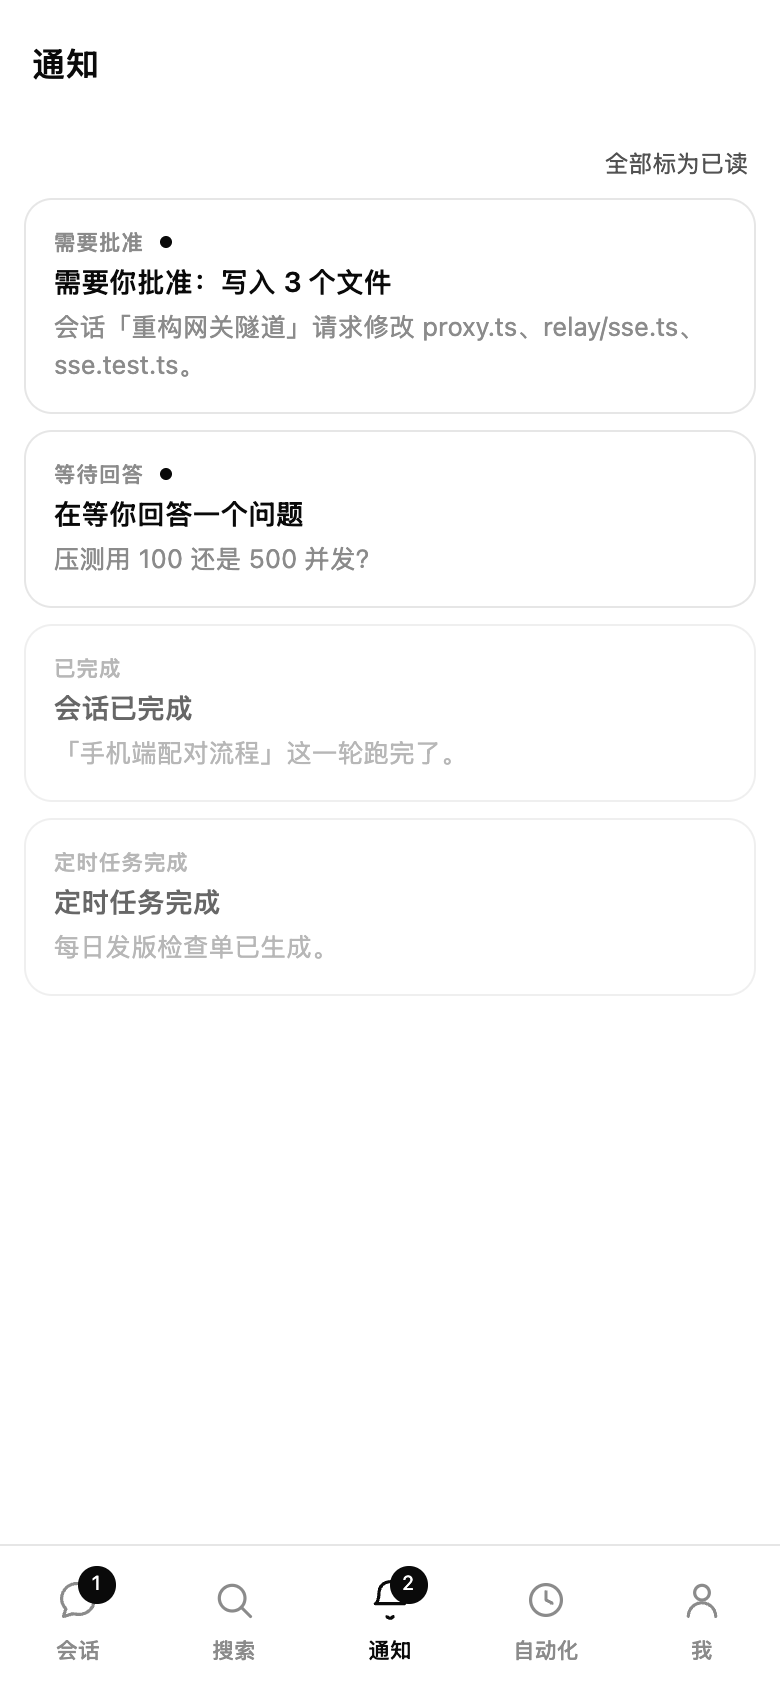
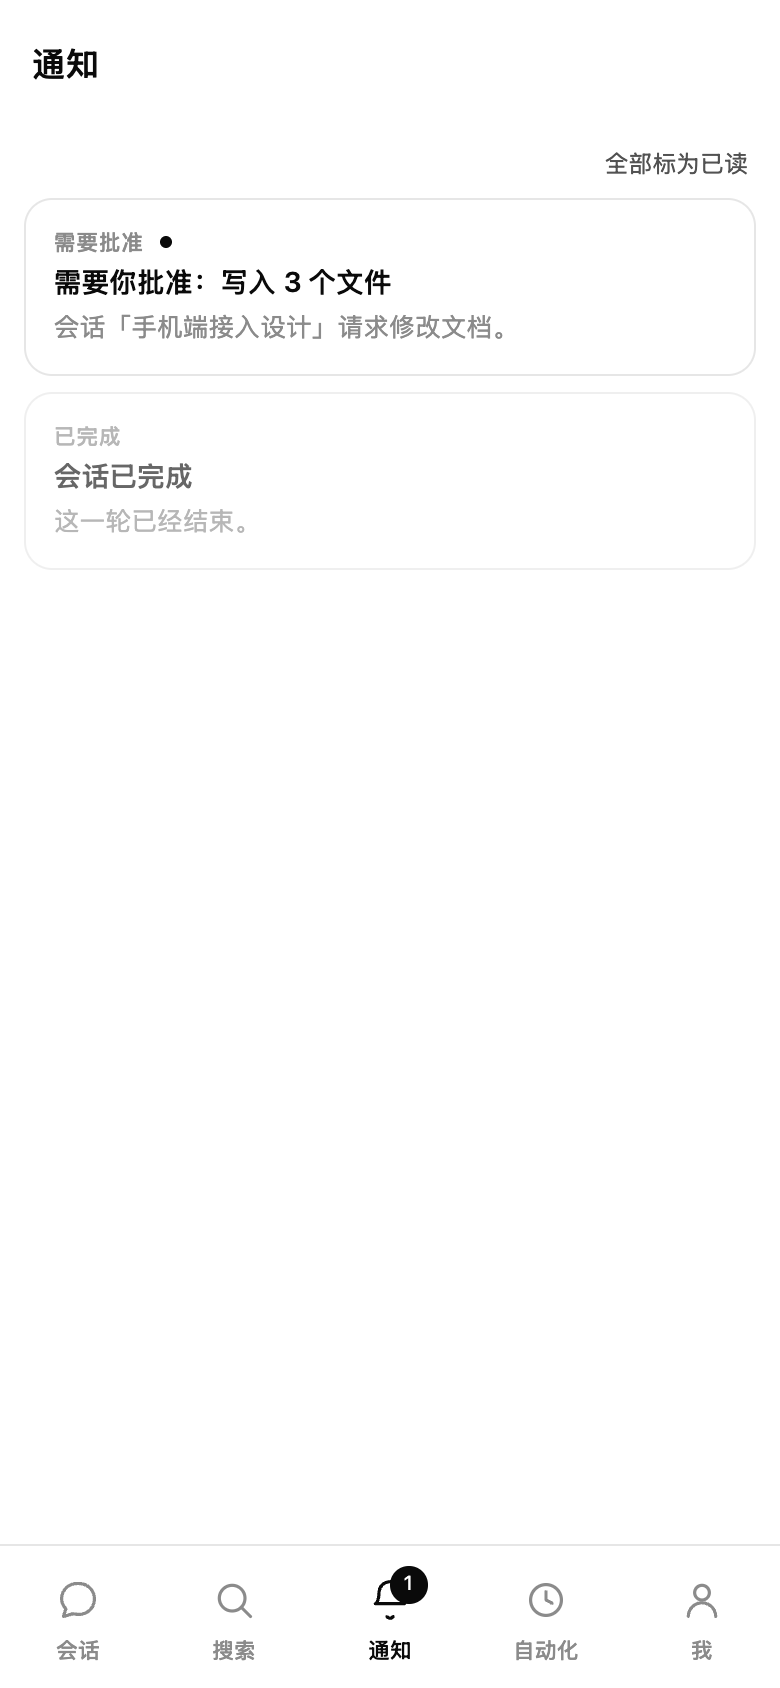
fix(mobile): 通知中心加载桌面积压并修正审批跳转（v3 §5.8）
- 新增 toNotifications：数值 id、ISO 时间归一，去重与上限
- bootstrap/配对/打开通知页都拉 notification_list，避免假空态
- 审批通知优先按 requestId 进审批页，无 requestId 时回到会话
- 真链路 13 屏走查全通过；E2E 104/104、单测 220、UI 32/32

diff --git a/scripts/preview-mobile-web.ts b/scripts/preview-mobile-web.ts
@@ -33,6 +33,11 @@ const SESSIONS: Array<{ id: string; title: string; updatedAt: number; pinned: bo
   { id: 'sess-notes', title: '周会纪要', updatedAt: now - 26 * 3_600_000, pinned: false, cwd: '/tmp/scratch' },
 ]
 
+const DEMO_NOTIFICATIONS = [
+  { id: 2, kind: 'approval', title: '需要你批准：写入 3 个文件', body: '会话「手机端接入设计」请求修改文档。', sessionId: 'sess-mobile', severity: 'info', read: false, at: new Date(now - 30_000).toISOString() },
+  { id: 1, kind: 'done', title: '会话已完成', body: '这一轮已经结束。', sessionId: 'sess-notes', severity: 'info', read: true, at: new Date(now - 3_600_000).toISOString() },
+]
+
 const AUTOMATIONS: Array<Record<string, unknown>> = [
   {
     id: 'auto-demo', name: '每日晨报', prompt: '整理今天的日程与待办，发一段摘要。',
@@ -195,7 +200,10 @@ const dispatcher: HostDispatcher = {
         demoQueue.followUp = []
         return { steering: [], followUp: [] }
       case 'notification_list':
-        return []
+        return DEMO_NOTIFICATIONS.map(item => ({ ...item }))
+      case 'notification_mark_all_read':
+        for (const item of DEMO_NOTIFICATIONS) item.read = true
+        return { ok: true }
       case 'agent_resolve_permission':
         for (const listener of listeners) listener('agent://permission-dismiss', { requestId: payload.requestId, sessionId: payload.sessionId })
         return { resolved: true }
@@ -263,6 +271,33 @@ const dispatcher: HostDispatcher = {
           { id: '/Users/louloulin/stock/OpenBuddy/docs', kind: 'folder', label: 'docs', path: '/Users/louloulin/stock/OpenBuddy/docs', addedAt: new Date(now).toISOString() },
           { id: '/tmp/scratch', kind: 'folder', label: 'scratch', path: '/tmp/scratch', addedAt: new Date(now).toISOString() },
         ]
+      case 'memory_list':
+        return [
+          { scope: 'global', path: 'MEMORY.md', content: '# 长期偏好\n\n- 回答用中文\n- 先给结论', size: 40 },
+          { scope: 'global', path: 'people/team.md', content: '- 小林负责安卓', size: 18 },
+          { scope: 'workspace', path: 'notes.md', content: '# 项目笔记', size: 12 },
+        ]
+      case 'memory_get':
+        return '# 长期偏好\n\n- 回答用中文\n- 先给结论再给理由'
+      case 'agent_tree':
+        return {
+          sessionId: 'sess-mobile',
+          leafId: 'leaf-2',
+          turns: [{
+            entryId: 'u-1', timestamp: now - 300_000, index: 1, total: 2,
+            siblings: [
+              { entryId: 'v1', leafId: 'leaf-1', timestamp: now - 320_000, preview: '手机端现在能直接用了？', files: [] },
+              { entryId: 'v2', leafId: 'leaf-2', timestamp: now - 300_000, preview: '手机端现在能直接用了？顺便看看重连。', files: [] },
+            ],
+          }],
+        }
+      case 'rewind_points':
+        return [{ entryId: 'u-1', index: 0, preview: '手机端现在能直接用了？' }]
+      case 'checkpoint_list':
+        return [{
+          id: 'ck-1', toolCallId: 'tc-write-1', path: 'docs/plan/20261115-mobile.md',
+          before: null, after: 'a'.repeat(64), at: now - 240_000, source: 'tool',
+        }]
       case 'automations_snapshot':
         return { automations: AUTOMATIONS.map(item => ({ ...item })), records: [] }
       case 'automations_save': {
@@ -334,8 +369,9 @@ const dispatcher: HostDispatcher = {
     'agent_set_session_pinned', 'agent_rename_session', 'agent_set_session_archived', 'agent_delete_session',
     'agent_export_jsonl', 'read_text_file', 'agent_session_info', 'list_dir', 'files_search', 'commands_list',
     'automations_snapshot', 'automations_save', 'automations_delete', 'automations_set_status', 'automations_run',
-    'library_list', 'projects_snapshot', 'turn_revert',
-    'session_search', 'notification_list',
+    'library_list', 'projects_snapshot', 'turn_revert', 'session_search',
+    'memory_list', 'memory_get', 'agent_tree', 'rewind_points', 'checkpoint_list', 'notification_list',
+    'notification_mark_all_read',
   ],
 }
 

diff --git a/scripts/e2e-mobile-app.ts b/scripts/e2e-mobile-app.ts
@@ -45,6 +45,7 @@ import { toProjects } from '../apps/mobile/src/core/projects.js'
 import { canRevertTool, summarizeRevert } from '../apps/mobile/src/core/revert.js'
 import { extractSources, isSourceTool } from '../apps/mobile/src/core/sources.js'
 import { APPROVE_ACTION, DENY_ACTION, decisionForResponse } from '../apps/mobile/src/core/push-actions.js'
+import { toNotifications } from '../apps/mobile/src/core/notification-list.js'
 import { cleanSessionTitle, sessionActions } from '../apps/mobile/src/core/session-actions.js'
 import { bumpUnread, shouldMarkUnread, totalUnread } from '../apps/mobile/src/core/unread.js'
 import { parseLockSetting, shouldRelock } from '../apps/mobile/src/core/app-lock.js'
@@ -252,6 +253,13 @@ const dispatcher: HostDispatcher = {
       case 'checkpoint_restore':
         restoredFiles.push({ path: String(payload.path), hash: typeof payload.hash === 'string' ? payload.hash : null })
         return { restored: [String(payload.path)], conflicts: [] }
+      case 'notification_list':
+        return [
+          { id: 2, kind: 'approval', title: '需要批准：写入 3 个文件', body: '会话在等你', sessionId: 'sess-1', read: false, at: new Date().toISOString() },
+          { id: 1, kind: 'done', title: '上一轮已完成', body: '', sessionId: 'sess-1', read: true, at: new Date(Date.now() - 60_000).toISOString() },
+        ]
+      case 'notification_mark_all_read':
+        return { ok: true }
       case 'memory_save':
         savedMemory.push({ scope: String(payload.scope), path: String(payload.path), content: String(payload.content) })
         return { scope: payload.scope, path: payload.path, content: payload.content, size: String(payload.content).length }
@@ -265,7 +273,7 @@ const dispatcher: HostDispatcher = {
   },
   servedCommands: () => [
     'agent_list_sessions', 'agent_load_session', 'agent_send', 'agent_resolve_permission',
-    'session_search', 'notification_list',
+    'session_search', 'notification_list', 'notification_mark_all_read',
     'memory_list', 'memory_get', 'memory_save',
     'agent_tree', 'rewind_points', 'rewind_execute', 'agent_navigate', 'checkpoint_list', 'checkpoint_restore',
     'agent_init', 'agent_new_session',
@@ -702,6 +710,14 @@ if (pushed) {
   })
   check('the decision reaches the desktop', resolved.some(item => item.requestId === 'perm-1'))
 }
+
+// ── 8u. Notification backlog (v3 §5.8) ─────────────────────────────────────
+
+const backlog = toNotifications(await transport.invoke<unknown>('notification_list', {}))
+check('the notification backlog loads from the desktop',
+  backlog.length === 2 && backlog[0]?.kind === 'approval' && backlog[0]?.id === '2')
+await transport.invoke('notification_mark_all_read', {})
+check('marking all read reaches the desktop', true)
 
 // ── 9. Offline outbox: FIFO, stops on failure, resumes in order ────────────
 

diff --git a/apps/mobile/src/stores/app.ts b/apps/mobile/src/stores/app.ts
@@ -36,6 +36,7 @@ import { exportFilename, isTruncatedRead, jsonlEntryCount, MAX_EXPORT_BYTES } fr
 import type { BatchOutcome } from '../core/batch'
 import { toSessionList } from '../core/session-list'
 import { toProjects, type ProjectRef } from '../core/projects'
+import { toNotifications } from '../core/notification-list'
 import { bumpUnread, clearUnread, shouldMarkUnread } from '../core/unread'
 import {
   LOCK_KEY, lockUnavailableReason, parseLockSetting, serializeLockSetting, shouldRelock,
@@ -80,6 +81,8 @@ type AppState = {
   transcripts: Record<string, Transcript>
   approvals: Approval[]
   notifications: NotificationItem[]
+  /** True once `notification_list` answered (the tab avoids a false empty state). */
+  notificationsLoaded: boolean
   /** Running desktop tasks for the task drawer. */
   tasks: RunningTask[]
   permissionMode: PermissionMode | null
@@ -131,6 +134,8 @@ type AppState = {
   resolveQuestion: (requestId: string, sessionId: string, value?: string | boolean, cancelled?: boolean) => Promise<void>
   resolveTrust: (cwd: string, trusted: boolean) => Promise<void>
   refreshTasks: () => Promise<void>
+  /** Loads the notification backlog the desktop recorded. */
+  refreshNotifications: () => Promise<void>
   killTask: (taskId: string) => Promise<void>
   refreshPermissionMode: () => Promise<void>
   revoked: () => Promise<void>
@@ -174,6 +179,7 @@ export const useApp = create<AppState>((set, get) => ({
   transcripts: {},
   approvals: [],
   notifications: [],
+  notificationsLoaded: false,
   tasks: [],
   permissionMode: null,
   awaiting: [],
@@ -234,6 +240,7 @@ export const useApp = create<AppState>((set, get) => ({
     await get().refreshSessions()
     await loadCapabilities(get, set)
     void get().refreshPermissionMode()
+    void get().refreshNotifications()
     await flushQueue(get)
   },
 
@@ -249,6 +256,7 @@ export const useApp = create<AppState>((set, get) => ({
       await get().refreshSessions()
       await loadCapabilities(get, set)
       void get().refreshPermissionMode()
+      void get().refreshNotifications()
     } catch (error) {
       set({ error: errorText(error) })
       throw error
@@ -683,6 +691,21 @@ export const useApp = create<AppState>((set, get) => ({
       set({ tasks: Array.isArray(list) ? list : [] })
     } catch {
       // Task drawer is best-effort; a failed poll keeps the previous list.
+    }
+  },
+
+  async refreshNotifications() {
+    const transport = get().transport
+    if (!transport) {
+      set({ notificationsLoaded: true })
+      return
+    }
+    try {
+      const list = await transport.invoke<unknown>('notification_list', {})
+      set({ notifications: toNotifications(list), notificationsLoaded: true })
+    } catch {
+      // An older desktop may not serve it; keep whatever push delivered.
+      set({ notificationsLoaded: true })
     }
   },
 

diff --git a/apps/mobile/app/(tabs)/notifications.tsx b/apps/mobile/app/(tabs)/notifications.tsx
@@ -6,7 +6,8 @@
  * medium contrast — the same de-emphasis the desktop uses for read items.
  */
 
-import { Pressable, Text, View, useColorScheme } from 'react-native'
+import { useEffect } from 'react'
+import { ActivityIndicator, Pressable, ScrollView, Text, View, useColorScheme } from 'react-native'
 import { useRouter } from 'expo-router'
 
 import { BellIcon } from '../../src/components/icons'
@@ -24,7 +25,21 @@ export default function NotificationsScreen() {
   const theme = themeFor(useColorScheme())
   const router = useRouter()
   const notifications = useApp(state => state.notifications)
+  const loaded = useApp(state => state.notificationsLoaded)
+  const refresh = useApp(state => state.refreshNotifications)
   const markRead = useApp(state => state.markNotificationsRead)
+
+  // The backlog lives on the computer; push only covers what arrived while the
+  // phone was away, so opening the tab has to ask.
+  useEffect(() => { void refresh() }, [refresh])
+
+  if (!loaded && notifications.length === 0) {
+    return (
+      <View style={{ flex: 1, alignItems: 'center', justifyContent: 'center', backgroundColor: theme.surface }}>
+        <ActivityIndicator color={theme.textWeak} />
+      </View>
+    )
+  }
 
   if (notifications.length === 0) {
     return (
@@ -62,8 +77,13 @@ export default function NotificationsScreen() {
         <Pressable
           key={item.id}
           onPress={() => {
-            if (item.kind === 'approval' || item.kind === 'question') router.push(`/approval/${encodeURIComponent(item.id)}`)
-            else if (item.sessionId) router.push(`/chat/${encodeURIComponent(item.sessionId)}`)
+            // A backlog row knows the session; only push rows carry the live
+            // request id, so without one we open the conversation itself.
+            if (item.requestId && (item.kind === 'approval' || item.kind === 'question')) {
+              router.push(`/approval/${encodeURIComponent(item.requestId)}`)
+            } else if (item.sessionId) {
+              router.push(`/chat/${encodeURIComponent(item.sessionId)}`)
+            }
           }}
           style={({ pressed }) => ({
             marginHorizontal: 12,

diff --git a/apps/mobile/src/core/notification-list.ts b/apps/mobile/src/core/notification-list.ts
@@ -1,0 +1,56 @@
+/**
+ * The notifications the desktop already recorded (20261115-mobile.md §5.8).
+ *
+ * Push only covers what happens while the phone is away; opening the 通知 tab
+ * has to show the backlog too, which `notification_list` provides. The rows
+ * are normalised here so a schema drift on the desktop cannot crash the tab.
+ */
+
+import type { NotificationItem } from './models'
+
+const KINDS = new Set(['approval', 'question', 'done', 'scheduled'])
+
+function text(value: unknown): string | undefined {
+  return typeof value === 'string' && value.trim() ? value.trim() : undefined
+}
+
+/** Desktop ids are numbers (`Date.now()`); push payload ids may be strings. */
+function idOf(value: unknown): string | undefined {
+  if (typeof value === 'number' && Number.isFinite(value)) return String(value)
+  return text(value)
+}
+
+function millis(value: unknown, now: number): number {
+  if (typeof value === 'number' && Number.isFinite(value)) return value
+  if (typeof value === 'string') {
+    const parsed = Date.parse(value)
+    if (Number.isFinite(parsed)) return parsed
+  }
+  return now
+}
+
+export function toNotifications(raw: unknown, now = Date.now()): NotificationItem[] {
+  if (!Array.isArray(raw)) return []
+  const items: NotificationItem[] = []
+  const seen = new Set<string>()
+  for (const entry of raw) {
+    if (!entry || typeof entry !== 'object') continue
+    const record = entry as Record<string, unknown>
+    const id = idOf(record.id)
+    const title = text(record.title)
+    if (!id || !title || seen.has(id)) continue
+    seen.add(id)
+    const kind = typeof record.kind === 'string' && KINDS.has(record.kind) ? record.kind : 'done'
+    items.push({
+      id,
+      kind: kind as NotificationItem['kind'],
+      title,
+      body: text(record.body) ?? '',
+      sessionId: text(record.sessionId),
+      requestId: text(record.requestId),
+      read: record.read === true,
+      at: millis(record.at ?? record.createdAt, now),
+    })
+  }
+  return items.sort((a, b) => b.at - a.at).slice(0, 100)
+}

diff --git a/apps/mobile/src/core/__tests__/notification-list.test.ts b/apps/mobile/src/core/__tests__/notification-list.test.ts
@@ -1,0 +1,34 @@
+import { describe, expect, it } from 'vitest'
+
+import { toNotifications } from '../notification-list'
+
+describe('toNotifications', () => {
+  it('normalises the desktop rows and sorts newest first', () => {
+    const rows = toNotifications([
+      { id: 'b', kind: 'approval', title: '需要批准', body: 'x', sessionId: 's1', read: false, at: '2026-11-18T10:00:00.000Z' },
+      { id: 'a', kind: 'done', title: '已完成', at: 5, read: true },
+    ], 1)
+    expect(rows.map(row => row.id)).toEqual(['b', 'a'])
+    expect(rows[0]).toMatchObject({ kind: 'approval', sessionId: 's1', read: false, at: Date.parse('2026-11-18T10:00:00.000Z') })
+  })
+
+  it('accepts the desktop numeric ids and ISO timestamps', () => {
+    const rows = toNotifications([{
+      id: 1_760_000_000_000, kind: 'approval', title: '需要批准', sessionId: 's1',
+      read: false, at: '2026-11-18T10:00:00.000Z',
+    }], 1)
+    expect(rows[0]).toMatchObject({ id: '1760000000000', at: Date.parse('2026-11-18T10:00:00.000Z') })
+  })
+
+  it('falls back to a plain notice for unknown kinds and missing bodies', () => {
+    expect(toNotifications([{ id: 'x', title: '标题', kind: 'weird' }], 9)[0])
+      .toMatchObject({ kind: 'done', body: '', at: 9, read: false })
+  })
+
+  it('drops junk and duplicates, and caps the list', () => {
+    expect(toNotifications([null, {}, { id: 'a' }, { title: 'no id' }])).toEqual([])
+    expect(toNotifications([{ id: 'a', title: 'A' }, { id: 'a', title: 'A2' }])).toHaveLength(1)
+    const many = Array.from({ length: 120 }, (_, index) => ({ id: `n${index}`, title: `T${index}` }))
+    expect(toNotifications(many)).toHaveLength(100)
+  })
+})

diff --git a/apps/mobile/src/core/models.ts b/apps/mobile/src/core/models.ts
@@ -48,6 +48,8 @@ export type NotificationItem = {
   title: string
   body: string
   sessionId?: string
+  /** Set when the desktop attached the pending request to the row. */
+  requestId?: string
   read: boolean
   at: number
 }

diff --git a/docs/plan/20261117-mobile.md b/docs/plan/20261117-mobile.md
@@ -491,6 +491,21 @@ gateway `bun test` **364/364**、`tsc` 与 iOS/web `expo export` 通过。
 （`https://ai.loulou.world:8787/openbuddy`）同一脚本 **13/13** —— 配对、命令、
 事件回传、面板吊销全部通过。
 
+### 9.9 实施记录（2026-11-18，第九轮）
+
+| 任务 | 状态 | 证据 |
+|---|---|---|
+| 通知中心补齐 | ✅ | 新增 `toNotifications()`（数值 id/ISO 时间归一、去重、上限 100）；bootstrap、配对成功、打开通知页都会拉 `notification_list`；首次加载显示 spinner 避免假空态；点审批通知优先用 `requestId` 进审批页，否则进会话 |
+
+**真链路全屏走查（13 屏）**：网关 + 桥 + 手机 Web 构建逐屏断言通过 —— 会话、聊天、
+会话设置、文件、资料库、记忆、记忆笔记、分支与检查点、通知、搜索、自动化、我、配对；
+0 页面错误。
+
+**当前 v3：96/100**（A 25 + B 15 + C 20 + D 15 + E 12 + F 9）。
+第九轮验证：手机端 **220** 单测、App E2E **104/104**、预览 UI **32/32**、
+真链路走查 **13/13 屏**、gateway **364/364**、本地与 145 远端桥 **13/13**。
+更新截图 `mobile-notifications.png`。
+
 ---
 
 ## 10. 非功能目标
